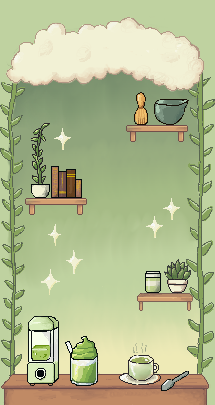
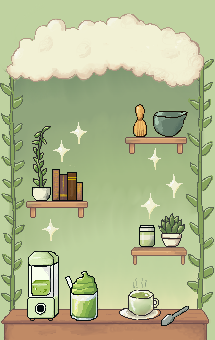
short mobile bg

diff --git a/src/index.css b/src/index.css
@@ -101,23 +101,23 @@
 
   body {
     @apply text-foreground;
-    height: 100vh;
+    min-height: 100vh;
     background-color: #bfd2a0;
-    -webkit-font-smoothing: antialiased;
-    -moz-osx-font-smoothing: grayscale;
     position: relative;
     overflow-x: hidden;
+    -webkit-font-smoothing: antialiased;
+    -moz-osx-font-smoothing: grayscale;
   }
 
   body::before {
     content: "";
-    position: fixed;
+    position: absolute;
     top: 50%;
     left: 50%;
-    width: 360px;
-    height: 256px;
-    background-image: url("/matcha-background.png");
-    background-size: 360px 256px;
+    width: calc(var(--bg-width));
+    height: calc(var(--bg-height));
+    background-image: var(--bg-image);
+    background-size: 100% 100%;
     background-repeat: no-repeat;
     transform: translate(-50%, -50%) scale(var(--bg-scale));
     transform-origin: center;
@@ -154,35 +154,10 @@
     --bg-width: 215px;
     --bg-height: 466px;
   }
-}
-
-body {
-  @apply text-foreground;
-  height: 100vh;
-  background-color: #bfd2a0;
-  position: relative;
-  overflow-x: hidden;
-  -webkit-font-smoothing: antialiased;
-  -moz-osx-font-smoothing: grayscale;
-}
-
-body::before {
-  content: "";
-  position: fixed;
-  top: 50%;
-  left: 50%;
-  width: calc(var(--bg-width));
-  height: calc(var(--bg-height));
-  background-image: var(--bg-image);
-  background-size: 100% 100%;
-  background-repeat: no-repeat;
-  transform: translate(-50%, -50%) scale(var(--bg-scale));
-  transform-origin: center;
-  image-rendering: pixelated;
-  image-rendering: -moz-crisp-edges;
-  image-rendering: crisp-edges;
-  image-rendering: -webkit-optimize-contrast;
-  will-change: transform;
-  backface-visibility: hidden;
-  z-index: -1;
+  body::before {
+    top: 0;
+    left: 50%;
+    transform: translateX(-50%) scale(var(--bg-scale));
+    transform-origin: top center;
+  }
 }
